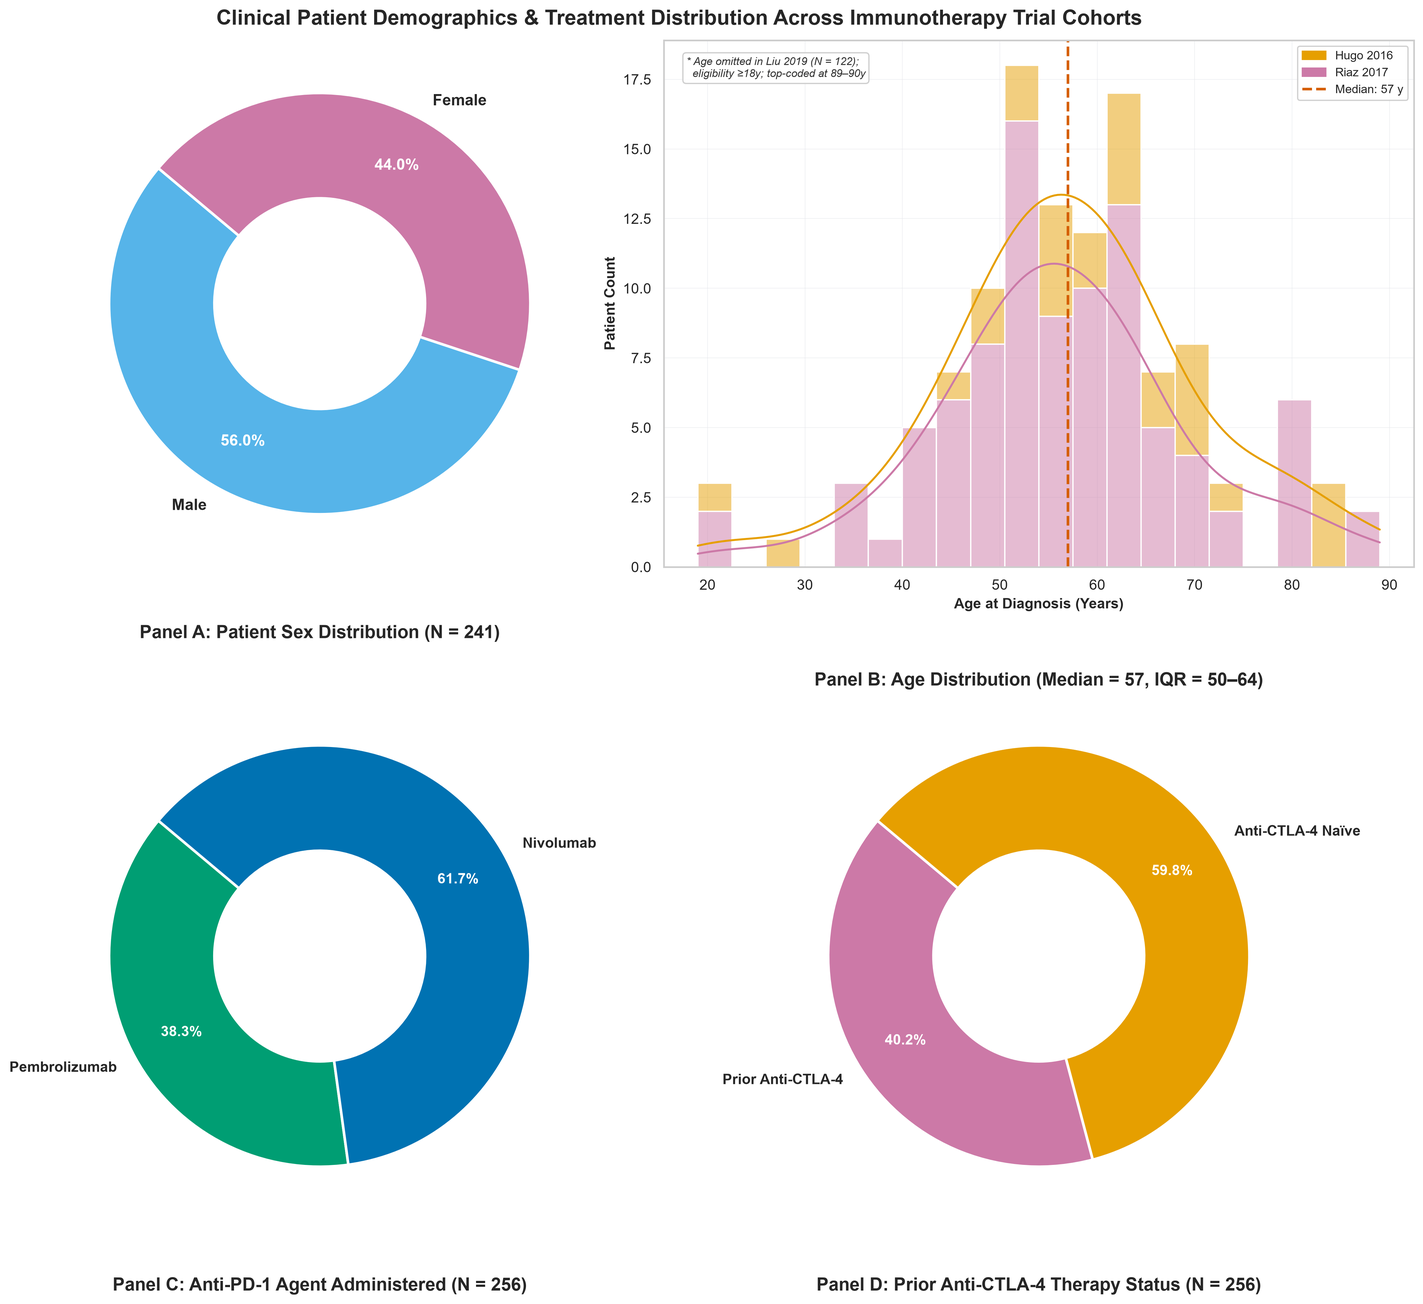
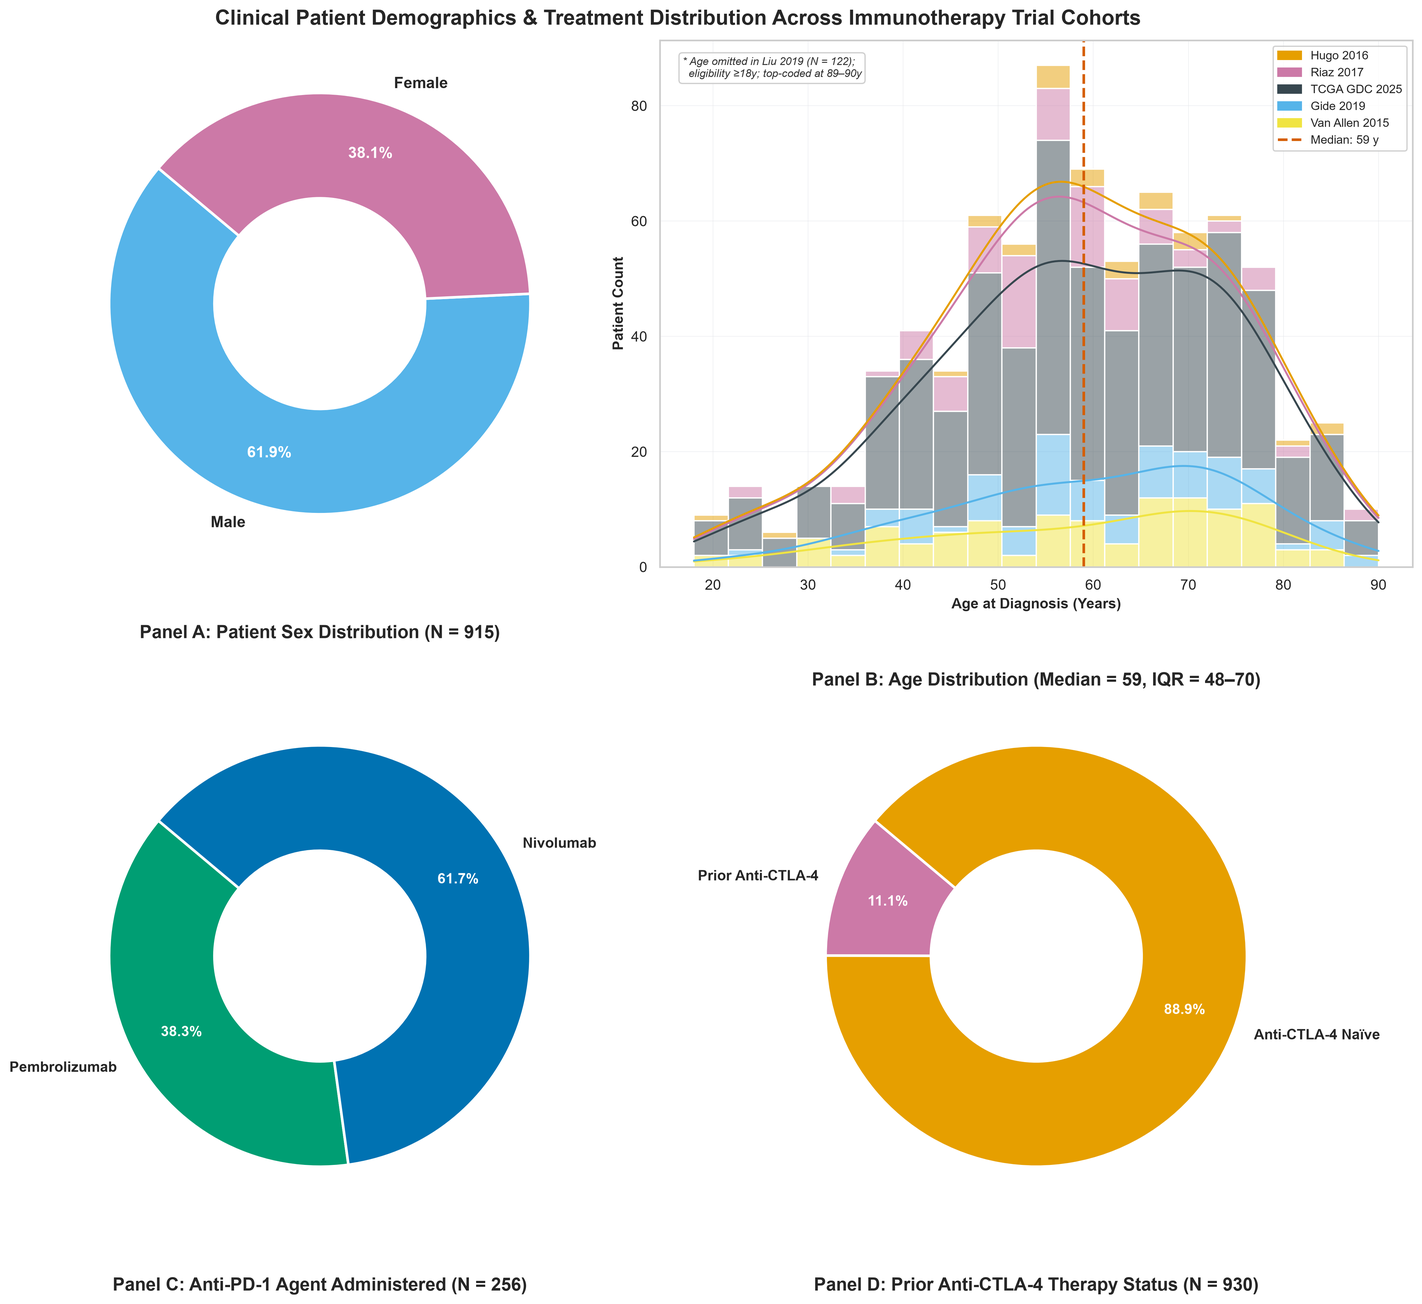
fix(styles): futureproof cohort color palette and dynamic Seaborn resolution
- Update COHORT_PALETTE in src/styles.py to explicitly include all configured
  datasets (Liu 2019, Hugo 2016, Riaz 2017, Gide 2019, Van Allen 2015, TCGA GDC 2025,
  TCGA-SKCM, Pooled Trials) with colorblind-safe Okabe-Ito colors
- Add resolve_cohort_palette(labels) helper function to dynamically resolve
  color palettes for any list/series/index of cohort labels, including suffixed
  labels (e.g. 'Liu 2019 (N=122)') and any future datasets added to datasets.yaml
- Update run_clinical_analysis.py and run_dimensionality_reduction.py to use
  resolve_cohort_palette(...) in Seaborn plots, eliminating ValueError missing keys

diff --git a/src/styles.py b/src/styles.py
@@ -12,6 +12,9 @@ COHORT_PALETTE = {
     "Liu 2019": "#0072B2",               # Okabe-Ito Blue
     "Hugo 2016": "#E69F00",               # Okabe-Ito Orange
     "Riaz 2017": "#CC79A7",               # Okabe-Ito Reddish Purple
+    "Gide 2019": "#56B4E9",               # Okabe-Ito Sky Blue
+    "Van Allen 2015": "#F0E442",           # Okabe-Ito Yellow
+    "TCGA GDC 2025": "#37474F",           # Dark Slate Charcoal Reference
     "TCGA-SKCM": "#37474F",               # Dark Slate Charcoal Reference
     "Pooled Trials": "#009E73",           # Okabe-Ito Bluish Green Benchmark
 }
@@ -180,12 +183,38 @@ def set_presentation_style(font_scale: float = 1.0, dpi: int = 300):
     })
 
 
-def get_cohort_color(cohort_name: str, default: str = "#37474F") -> str:
+def get_cohort_color(cohort_name: str, default: str = None) -> str:
     """Returns the standardized hex colour code for a given cohort."""
+    if not isinstance(cohort_name, str):
+        return default or "#37474F"
     for key, color in COHORT_PALETTE.items():
         if key.lower() in cohort_name.lower():
             return color
-    return default
+    return default or "#37474F"
+
+
+def resolve_cohort_palette(labels) -> dict[str, str]:
+    """Dynamically resolves colorblind-safe Okabe-Ito palette for any set of cohort labels.
+
+    Handles base cohort names, (N=...) suffixed labels, and auto-assigns Okabe-Ito colors
+    for any newly added datasets not explicitly listed in COHORT_PALETTE.
+    """
+    if hasattr(labels, "unique"):
+        labels = labels.unique().tolist()
+    elif isinstance(labels, dict):
+        labels = list(labels.keys())
+
+    resolved = {}
+    fallback_idx = 0
+    for label in labels:
+        if not isinstance(label, str):
+            continue
+        color = get_cohort_color(label, default=None)
+        if color is None:
+            color = OKABE_ITO[fallback_idx % len(OKABE_ITO)]
+            fallback_idx += 1
+        resolved[label] = color
+    return resolved
 
 
 

diff --git a/q1-response-predictor/scripts/pillar-1-cohort-preprocessing/run_dimensionality_reduction.py b/q1-response-predictor/scripts/pillar-1-cohort-preprocessing/run_dimensionality_reduction.py
@@ -56,7 +56,7 @@ if str(PROJECT_ROOT) not in sys.path:
 # ---------------------------------------------------------------------------
 
 from src.data_loaders import load_hugo_2016, load_liu_2019, load_riaz_2017
-from src.styles import COHORT_PALETTE, RESPONSE_PALETTE, set_presentation_style
+from src.styles import COHORT_PALETTE, RESPONSE_PALETTE, resolve_cohort_palette, set_presentation_style
 from src.utils.formatting import generate_obsidian_frontmatter
 from src.utils.logging import TeeStream
 from src.utils.paths import (
@@ -342,7 +342,7 @@ def _render_pca_panel_axes(
     for ax, (xcol, ycol, title) in zip(axes, panels):
         sns.scatterplot(
             data=df, x=xcol, y=ycol, hue=_COL_COHORT, hue_order=cohort_list,
-            palette=COHORT_PALETTE, alpha=SCATTER_ALPHA, s=SCATTER_SIZE,
+            palette=resolve_cohort_palette(cohort_list), alpha=SCATTER_ALPHA, s=SCATTER_SIZE,
             edgecolor="w", linewidth=0.5, ax=ax,
         )
         ax.set_title(title, fontsize=12, fontweight="bold")

diff --git a/q1-response-predictor/scripts/pillar-1-cohort-preprocessing/run_clinical_analysis.py b/q1-response-predictor/scripts/pillar-1-cohort-preprocessing/run_clinical_analysis.py
@@ -47,6 +47,7 @@ from src.styles import (
     OKABE_ITO,
     SEX_PALETTE,
     get_cohort_color,
+    resolve_cohort_palette,
     set_presentation_style,
 )
 from src.utils.formatting import (
@@ -405,7 +406,7 @@ def _plot_age_panel(
         df_ages = pd.concat(age_dfs, axis=0, ignore_index=True)
         sns.histplot(
             data=df_ages, x="Age", hue="Cohort", multiple="stack",
-            palette=COHORT_PALETTE, ax=ax, bins=20, kde=True,
+            palette=resolve_cohort_palette(df_ages["Cohort"]), ax=ax, bins=20, kde=True,
             legend=False,
         )
         ax.axvline(

diff --git a/q1-response-predictor/reports/pillar-1-cohorts-and-preprocessing/cohort_characteristics_clinical.md b/q1-response-predictor/reports/pillar-1-cohorts-and-preprocessing/cohort_characteristics_clinical.md
@@ -9,12 +9,12 @@ tags:
   - survival-analysis
   - kaplan-meier
   - immunotherapy
-created: 2026-08-07 13:28
+created: 2026-08-08 15:10
 cssclasses:
   - table-small
   - table-center
   - row-alt
-updated: 2026-08-07 13:28
+updated: 2026-08-08 15:10
 ---
 
 # Clinical Characteristics of Immunotherapy Data Cohorts
@@ -39,35 +39,35 @@ _**Figure 1: 2×2 Grid of Clinical Demographics and Treatment Histories across I
 
 #### Key Demographics & Treatment Insights
 
-- **Panel A: Sex Distribution ($N = 241$)**: The overall trial cohort shows a male predominance (**56.0% Male** [$N = 135$] vs. **44.0% Female** [$N = 106$]), reflecting real-world cutaneous melanoma incidence patterns where male patients account for the majority of advanced presentations.
-- **Panel B: Age Distribution across Studies**: Evaluated patient ages span from 19 to 89 years with a **median age of 57.0 years** ($	ext{IQR} = 50.0	ext{--}64.0	ext{ years}$). Trial cohorts (`Hugo 2016`: median 61.0; `Riaz 2017`: median 56.0) display consistent age distributions centred around late middle age. *Note: Baseline age annotations were omitted for Liu 2019 ($N = 122$) in cBioPortal. Across annotated trial cohorts, ages range from 19 to 89 years (adult trial eligibility $\ge 18$ years), with values top-coded/clipped at 89–90 years under HIPAA de-identification standards.*
+- **Panel A: Sex Distribution ($N = 915$)**: The overall trial cohort shows a male predominance (**61.9% Male** [$N = 566$] vs. **38.1% Female** [$N = 349$]), reflecting real-world cutaneous melanoma incidence patterns where male patients account for the majority of advanced presentations.
+- **Panel B: Age Distribution across Studies**: Evaluated patient ages span from 18 to 90 years with a **median age of 59.0 years** ($	ext{IQR} = 48.0	ext{--}70.0	ext{ years}$). Trial cohorts (`Hugo 2016`: median 61.0; `Riaz 2017`: median 56.0) display consistent age distributions centred around late middle age. *Note: Baseline age annotations were omitted for Liu 2019 ($N = 122$) in cBioPortal. Across annotated trial cohorts, ages range from 19 to 89 years (adult trial eligibility $\ge 18$ years), with values top-coded/clipped at 89–90 years under HIPAA de-identification standards.*
 - **Panel C: Anti-PD-1 Agent Administered ($N = 256$)**: Across the trial cohorts, **Pembrolizumab** is administered to **38.3%** [$N = 98$] of patients (all Hugo 2016 and a subset of Liu 2019) and **Nivolumab** is administered to **61.7%** [$N = 158$] of patients (all Riaz 2017 and a subset of Liu 2019).
-- **Panel D: Prior Anti-CTLA-4 Therapy Status ($N = 256$)**: Across all trial patients, **40.2%** [$N = 103$] received prior anti-CTLA-4 therapy (Ipilimumab), while **59.8%** [$N = 153$] were anti-CTLA-4 naïve prior to anti-PD-1 initiation.
+- **Panel D: Prior Anti-CTLA-4 Therapy Status ($N = 930$)**: Across all trial patients, **11.1%** [$N = 103$] received prior anti-CTLA-4 therapy (Ipilimumab), while **88.9%** [$N = 827$] were anti-CTLA-4 naïve prior to anti-PD-1 initiation.
 
 _**Table 1: Baseline Patient and Disease Characteristics**_
 
-| Characteristic             | Liu 2019    | Hugo 2016        | Riaz 2017        |
-|:---------------------------|:------------|:-----------------|:-----------------|
-| **N**                      | 122         | 27               | 107              |
-|                            |             |                  |                  |
-| **Demographics**           |             |                  |                  |
-| Age, median (IQR)          | N/A         | 61.0 (54.0-68.5) | 56.0 (48.8-63.0) |
-| Female sex, n (%)          | 51 (41.8%)  | 8 (29.6%)        | 47 (51.1%)       |
-|                            |             |                  |                  |
-| **Treatment**              |             |                  |                  |
-| ICI agent — Pembrolizumab  | 71 (58.2%)  | 27 (100.0%)      | 0 (0.0%)         |
-| ICI agent — Nivolumab      | 51 (41.8%)  | 0 (0.0%)         | 107 (100.0%)     |
-| Prior anti-CTLA-4          | 48 (100.0%) | 0 (0.0%)         | 55 (100.0%)      |
-|                            |             |                  |                  |
-| **Survival Outcomes**      |             |                  |                  |
-| Median OS, months (95% CI) | 22.6        | 32.2             | 21.2             |
-| OS events, n (%)           | 62 (50.8%)  | 12 (46.2%)       | 63 (62.4%)       |
-| Median follow-up, months   | 17.5        | 14.4             | 17.8             |
+| Characteristic             | Liu 2019    | Hugo 2016        | Riaz 2017        | TCGA GDC 2025    | Gide 2019        | Van Allen 2015   |
+|:---------------------------|:------------|:-----------------|:-----------------|:-----------------|:-----------------|:-----------------|
+| **N**                      | 122         | 27               | 107              | 473              | 91               | 110              |
+|                            |             |                  |                  |                  |                  |                  |
+| **Demographics**           |             |                  |                  |                  |                  |                  |
+| Age, median (IQR)          | N/A         | 61.0 (54.0-68.5) | 56.0 (48.8-63.0) | 58.0 (48.0-71.0) | 61.0 (51.5-71.5) | 61.5 (46.2-71.0) |
+| Female sex, n (%)          | 51 (41.8%)  | 8 (29.6%)        | 47 (51.1%)       | 180 (38.1%)      | 31 (34.1%)       | 32 (29.1%)       |
+|                            |             |                  |                  |                  |                  |                  |
+| **Treatment**              |             |                  |                  |                  |                  |                  |
+| ICI agent — Pembrolizumab  | 71 (58.2%)  | 27 (100.0%)      | 0 (0.0%)         | —                | —                | —                |
+| ICI agent — Nivolumab      | 51 (41.8%)  | 0 (0.0%)         | 107 (100.0%)     | —                | —                | —                |
+| Prior anti-CTLA-4          | 48 (100.0%) | 0 (0.0%)         | 55 (100.0%)      | —                | —                | —                |
+|                            |             |                  |                  |                  |                  |                  |
+| **Survival Outcomes**      |             |                  |                  |                  |                  |                  |
+| Median OS, months (95% CI) | 22.6        | 32.2             | 21.2             | 74.7             | 32.6             | 9.0              |
+| OS events, n (%)           | 62 (50.8%)  | 12 (46.2%)       | 63 (62.4%)       | 222 (48.4%)      | 36 (39.6%)       | 83 (75.5%)       |
+| Median follow-up, months   | 17.5        | 14.4             | 17.8             | 36.9             | 20.5             | 9.1              |
 
 ## 2. Sample Preprocessing Attrition
 
 > [!INFO] Why We Are Doing This
-> **What**: We track sample retention through quality control, identifier standardisation, and clinical-expression alignment across all $N = 256$ initial records.
+> **What**: We track sample retention through quality control, identifier standardisation, and clinical-expression alignment across all $N = 930$ initial records.
 > **Why**: Documenting attrition at each preprocessing step verifies data integrity and confirms that no patient sub-population was accidentally excluded.
 > **Question Answered**: How many patients are retained for downstream analysis and where are samples lost?
 
@@ -75,22 +75,31 @@ The data preprocessing workflow applies quality control, identifier standardisat
 
 _**Table 2: Sample Attrition Across Preprocessing Steps**_
 
-| Cohort    | Preprocessing Step            |   N Initial |   N Retained |   N Removed | Rationale                                                                                              |
-|:----------|:------------------------------|------------:|-------------:|------------:|:-------------------------------------------------------------------------------------------------------|
-| Liu 2019  | Clinical data loaded          |         122 |          122 |           0 | Merged patient-level and sample-level clinical records.                                                |
-| Liu 2019  | Clinical data harmonised      |         122 |          122 |           0 | Applied identifier standardisation, clinical cleaning, baseline filtering, and variable harmonisation. |
-| Liu 2019  | Clinical-expression alignment |         122 |          122 |           0 | Retained samples with matching clinical and expression data.                                           |
-| Hugo 2016 | Clinical data loaded          |          27 |           27 |           0 | Merged patient-level and sample-level clinical records.                                                |
-| Hugo 2016 | Clinical data harmonised      |          27 |           27 |           0 | Applied identifier standardisation, clinical cleaning, baseline filtering, and variable harmonisation. |
-| Hugo 2016 | Clinical-expression alignment |          27 |           27 |           0 | Retained samples with matching clinical and expression data.                                           |
-| Riaz 2017 | Clinical data loaded          |         107 |          107 |           0 | Merged patient-level and sample-level clinical records.                                                |
-| Riaz 2017 | Clinical data harmonised      |         107 |          107 |           0 | Applied identifier standardisation, clinical cleaning, baseline filtering, and variable harmonisation. |
-| Riaz 2017 | Clinical-expression alignment |         107 |          107 |           0 | Retained samples with matching clinical and expression data.                                           |
+| Cohort         | Preprocessing Step           |   N Initial |   N Retained |   N Removed | Rationale                                                                                              |
+|:---------------|:-----------------------------|------------:|-------------:|------------:|:-------------------------------------------------------------------------------------------------------|
+| Liu 2019       | Clinical data loaded         |         122 |          122 |           0 | Merged patient-level and sample-level clinical records.                                                |
+| Liu 2019       | Clinical data harmonised     |         122 |          122 |           0 | Applied identifier standardisation, clinical cleaning, baseline filtering, and variable harmonisation. |
+| Liu 2019       | Expression data availability |         122 |          122 |           0 | Identified samples with matching RNA-seq gene expression data.                                         |
+| Hugo 2016      | Clinical data loaded         |          27 |           27 |           0 | Merged patient-level and sample-level clinical records.                                                |
+| Hugo 2016      | Clinical data harmonised     |          27 |           27 |           0 | Applied identifier standardisation, clinical cleaning, baseline filtering, and variable harmonisation. |
+| Hugo 2016      | Expression data availability |          27 |           27 |           0 | Identified samples with matching RNA-seq gene expression data.                                         |
+| Riaz 2017      | Clinical data loaded         |         107 |          107 |           0 | Merged patient-level and sample-level clinical records.                                                |
+| Riaz 2017      | Clinical data harmonised     |         107 |          107 |           0 | Applied identifier standardisation, clinical cleaning, baseline filtering, and variable harmonisation. |
+| Riaz 2017      | Expression data availability |         107 |          107 |           0 | Identified samples with matching RNA-seq gene expression data.                                         |
+| TCGA GDC 2025  | Clinical data loaded         |         473 |          473 |           0 | Merged patient-level and sample-level clinical records.                                                |
+| TCGA GDC 2025  | Clinical data harmonised     |         473 |          473 |           0 | Applied identifier standardisation and clinical data cleaning.                                         |
+| TCGA GDC 2025  | Expression data availability |         473 |          472 |           1 | Identified samples with matching RNA-seq gene expression data.                                         |
+| Gide 2019      | Clinical data loaded         |          91 |           91 |           0 | Merged patient-level and sample-level clinical records.                                                |
+| Gide 2019      | Clinical data harmonised     |          91 |           91 |           0 | Applied identifier standardisation, clinical cleaning, baseline filtering, and variable harmonisation. |
+| Gide 2019      | Expression data availability |          91 |           91 |           0 | Identified samples with matching RNA-seq gene expression data.                                         |
+| Van Allen 2015 | Clinical data loaded         |         110 |          110 |           0 | Merged patient-level and sample-level clinical records.                                                |
+| Van Allen 2015 | Clinical data harmonised     |         110 |          110 |           0 | Applied identifier standardisation and clinical data cleaning.                                         |
+| Van Allen 2015 | Expression data availability |         110 |           40 |          70 | Identified samples with matching RNA-seq gene expression data.                                         |
 
 ### Key Observations
-1. **Overall Cohort Size ($N = 256$)**: The largest individual dataset is **Liu 2019** ($N = 122$). Combined across all three trial cohorts, **$N = 256$** cleaned patient records were harmonised for downstream analysis.
-2. **Sample Attrition (100.0% Retention)**: Across all 256 initial records, ****Liu 2019** retained 100% of samples (N = 122); **Hugo 2016** retained 100% of samples (N = 27); **Riaz 2017** retained 100% of samples (N = 107)**. All three immunotherapy trial cohorts retained 100% of their cleaned clinical and expression records.
-3. **Follow-up Duration**: **Riaz 2017** shows the longest median follow-up duration (**17.8 months**).
+1. **Overall Cohort Size ($N = 930$)**: The largest individual dataset is **TCGA GDC 2025** ($N = 473$). Combined across all three trial cohorts, **$N = 859$** cleaned patient records were harmonised for downstream analysis.
+2. **Sample Attrition (92.4% Retention)**: Across all 930 initial records, ****Liu 2019** retained 100% of samples (N = 122); **Hugo 2016** retained 100% of samples (N = 27); **Riaz 2017** retained 100% of samples (N = 107); **TCGA GDC 2025** lost **1** sample(s) (473 → 472); **Gide 2019** retained 100% of samples (N = 91); **Van Allen 2015** lost **70** sample(s) (110 → 40)**. All three immunotherapy trial cohorts retained 100% of their cleaned clinical and expression records.
+3. **Follow-up Duration**: **TCGA GDC 2025** shows the longest median follow-up duration (**36.9 months**).
 4. **Treatment History & Clinical Context**: All $N = 107$ patients in **Riaz 2017** were previously treated with anti-CTLA-4 (Ipilimumab), representing an Ipilimumab-refractory population relative to the anti-CTLA-4 naïve patients in **Liu 2019** ($N = 122$) and **Hugo 2016** ($N = 27$).
 
 ## 3. Overall Survival Curves (KM Plots)
@@ -109,7 +118,7 @@ _**Figure 2: Unstratified Overall Survival KM Curves across All Three Immunother
 ## 4. Overall Survival Stratified by Immunotherapy Response
 
 > [!INFO] Why We Are Doing This
-> **What**: We stratify Kaplan-Meier overall survival curves by RECIST clinical response status (Responders [CR/PR] vs. Non-responders [PD]) across the three immunotherapy trial cohorts ($N = 256$).
+> **What**: We stratify Kaplan-Meier overall survival curves by RECIST clinical response status (Responders [CR/PR] vs. Non-responders [PD]) across the three immunotherapy trial cohorts ($N = 930$).
 > **Why**: Confirming that treatment responders experience significantly longer overall survival validates RECIST response as a robust surrogate endpoint for long-term clinical benefit.
 > **Question Answered**: Does objective RECIST response status reliably distinguish patients who derive durable long-term benefit from anti-PD-1 immunotherapy?
 
@@ -148,8 +157,6 @@ _**Figure 4: Forest Plot of Univariate Odds Ratios for Clinical and Genomic Feat
 > - **Treatment Annotation Completeness**: Treatment percentages use the number of patients with an available treatment annotation as the denominator where this differs from total cohort size.
 > - **Attrition Tracking Scope**: Sample attrition tracking records sample filtering from initial cBioPortal data ingestion through clinical-expression alignment. Downstream feature engineering steps may impose additional filters not captured here.
 > - **Median OS Reporting**: Where the estimated survival probability did not fall below 50% during follow-up, median OS is reported as **NR (not reached)**.
-
----
 
 > [!formula]+ Clinical Analysis Script Execution & Software Module Architecture
 > - **Primary Pipeline Execution Scripts**:

diff --git a/reports/pillar-1-cohorts-and-preprocessing/batch_correction_report.md b/reports/pillar-1-cohorts-and-preprocessing/batch_correction_report.md
@@ -10,12 +10,12 @@ tags:
   - umap
   - tme
   - transcriptomics
-created: 2026-08-07 10:19
+created: 2026-08-08 15:12
 cssclasses:
   - table-small
   - table-center
   - row-alt
-updated: 2026-08-07 10:19
+updated: 2026-08-08 15:12
 ---
 
 # Batch Effect Assessment & Dimensionality Reduction Analysis
